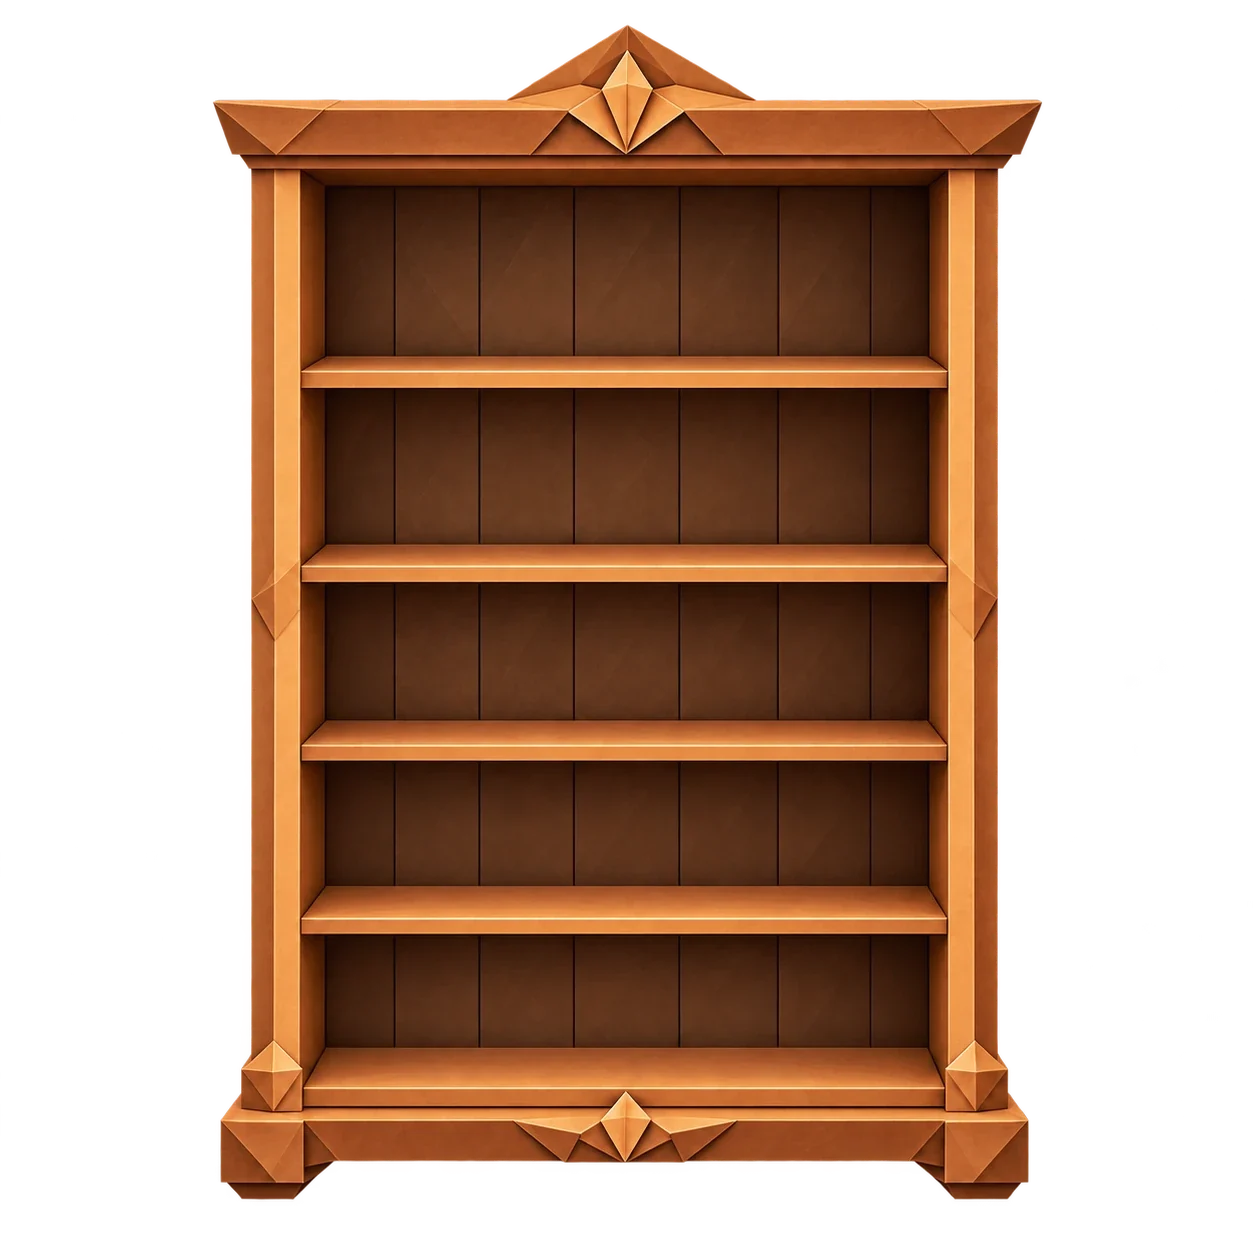
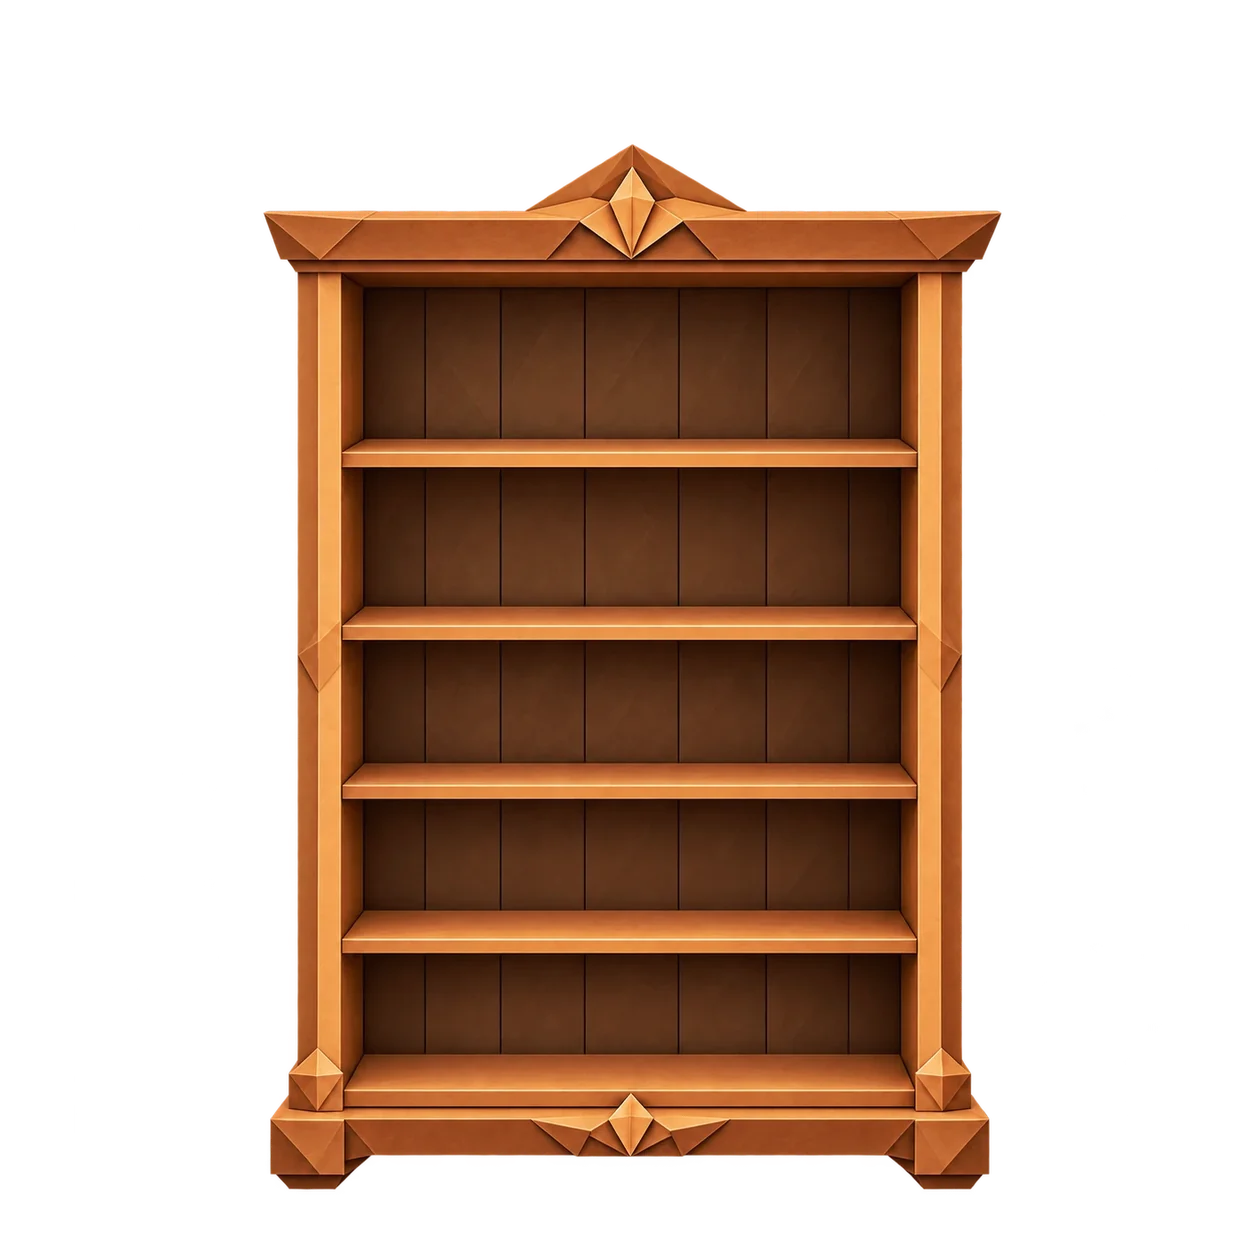
Neue Regale auf Größe des alten, Stufe 3 mit goldener Rahmen-Innenkante, ganzer Goldrahmen ab Stufe 4 (1.68.1)

diff --git a/index.html b/index.html
@@ -899,7 +899,9 @@ html::before{ content:''; position:fixed; left:0; right:0; top:0; height:var(--s
 html.lvl-1{ --gold:#b8a4ff; --gold-text:#e2d9ff; --gold-rgb:184,164,255; }
 html.lvl-1 .page-modal::before, html.lvl-1 .tb-overlay::before, html.lvl-1 body::before,
 html.lvl-2 .page-modal::before, html.lvl-2 .tb-overlay::before, html.lvl-2 body::before{ border-image-source:url(img/frame-portrait-tonal.png); }
+html.lvl-3 .page-modal::before, html.lvl-3 .tb-overlay::before, html.lvl-3 body::before{ border-image-source:url(img/frame-portrait-mid.png); }
 @media (orientation:landscape) and (min-width:700px){
+  html.lvl-3 .page-modal::before, html.lvl-3 .tb-overlay::before, html.lvl-3 body::before{ border-image-source:url(img/frame-land-mid.png); }
   html.lvl-1 .page-modal::before, html.lvl-1 .tb-overlay::before, html.lvl-1 body::before,
   html.lvl-2 .page-modal::before, html.lvl-2 .tb-overlay::before, html.lvl-2 body::before{ border-image-source:url(img/frame-land-tonal.png); }
 }
@@ -1336,7 +1338,7 @@ html.lvl-4 body::after{ content:''; position:fixed; left:0; right:0; top:var(--s
 
 <script>
 /* Bump on every published update, so it's visible at a glance whether the newest version is loaded. */
-const APP_VERSION = '1.68.0';
+const APP_VERSION = '1.68.1';
 // Starter entries for Achtsamkeit: the samples are only used when the app has no saved data yet (a genuinely
 // fresh browser) — after that, each person's own additions and deletions are theirs alone.
 const DEFAULT_MEDITATIONEN = [
@@ -5140,8 +5142,8 @@ function tbSpineHtml(key){
 // the bottom of each compartment lies towards the back of the board's top surface, so things stand in the shelf, not at its front edge
 // each shelf picture has its own compartments (bottom = near the back edge of the board): level 1 dusty, 2 clean, 3+ with ivy
 const SHELVES = {
-  dusty:{ img:'shelf-dusty', x:[25.7, 75.1], rows:[[15.5, 29.8], [31.3, 44.9], [46.4, 59.1], [60.6, 72.6], [74.1, 86.0]] },
-  clean:{ img:'shelf-clean', x:[25.6, 75.1], rows:[[14.8, 29.1], [30.6, 44.5], [46.0, 58.6], [60.1, 71.9], [73.4, 85.2]] },
+  dusty:{ img:'shelf-dusty', x:[28.9, 72.8], rows:[[23.6, 36.5], [37.5, 50.1], [51.1, 62.5], [63.5, 74.4], [75.4, 86.2]] },
+  clean:{ img:'shelf-clean', x:[28.9, 72.8], rows:[[22.8, 35.8], [36.8, 49.3], [50.3, 61.9], [62.9, 73.7], [74.7, 85.6]] },
   ivy:{ img:'shelf', x:[29.2, 72.9], rows:[[18.8, 32.2], [33.7, 46.5], [48.3, 59.7], [61.7, 72.4], [74.7, 85.4]] }
 };
 const shelfNow = ()=>SHELVES[appLevel() <= 1 ? 'dusty' : appLevel() === 2 ? 'clean' : 'ivy'];

diff --git a/CLAUDE.md b/CLAUDE.md
@@ -124,7 +124,7 @@ Der Nutzer ist kein Entwickler. Erkläre Schritte einfach und auf Deutsch.
 - Veröffentlicht über **GitHub Pages** aus diesem Repository (Branch `main`, Ordner `/`):
   https://k9vk58y99f-max.github.io/k9vk58y99f-max.github.io-ewolfe-app-/
 - Ein Commit + Push auf `main` ist die Veröffentlichung; nach 1–2 Minuten ist es live.
-- Bei jeder Änderung `APP_VERSION` erhöhen (aktuell `1.68.0`) und `APP_BUILD` anpassen.
+- Bei jeder Änderung `APP_VERSION` erhöhen (aktuell `1.68.1`) und `APP_BUILD` anpassen.
   Die Version steht unten in der App.
 
 ## Neu seit 1.55.0 (iPad, Wischen, Tagebuch, Sticker, Impulskarten)
